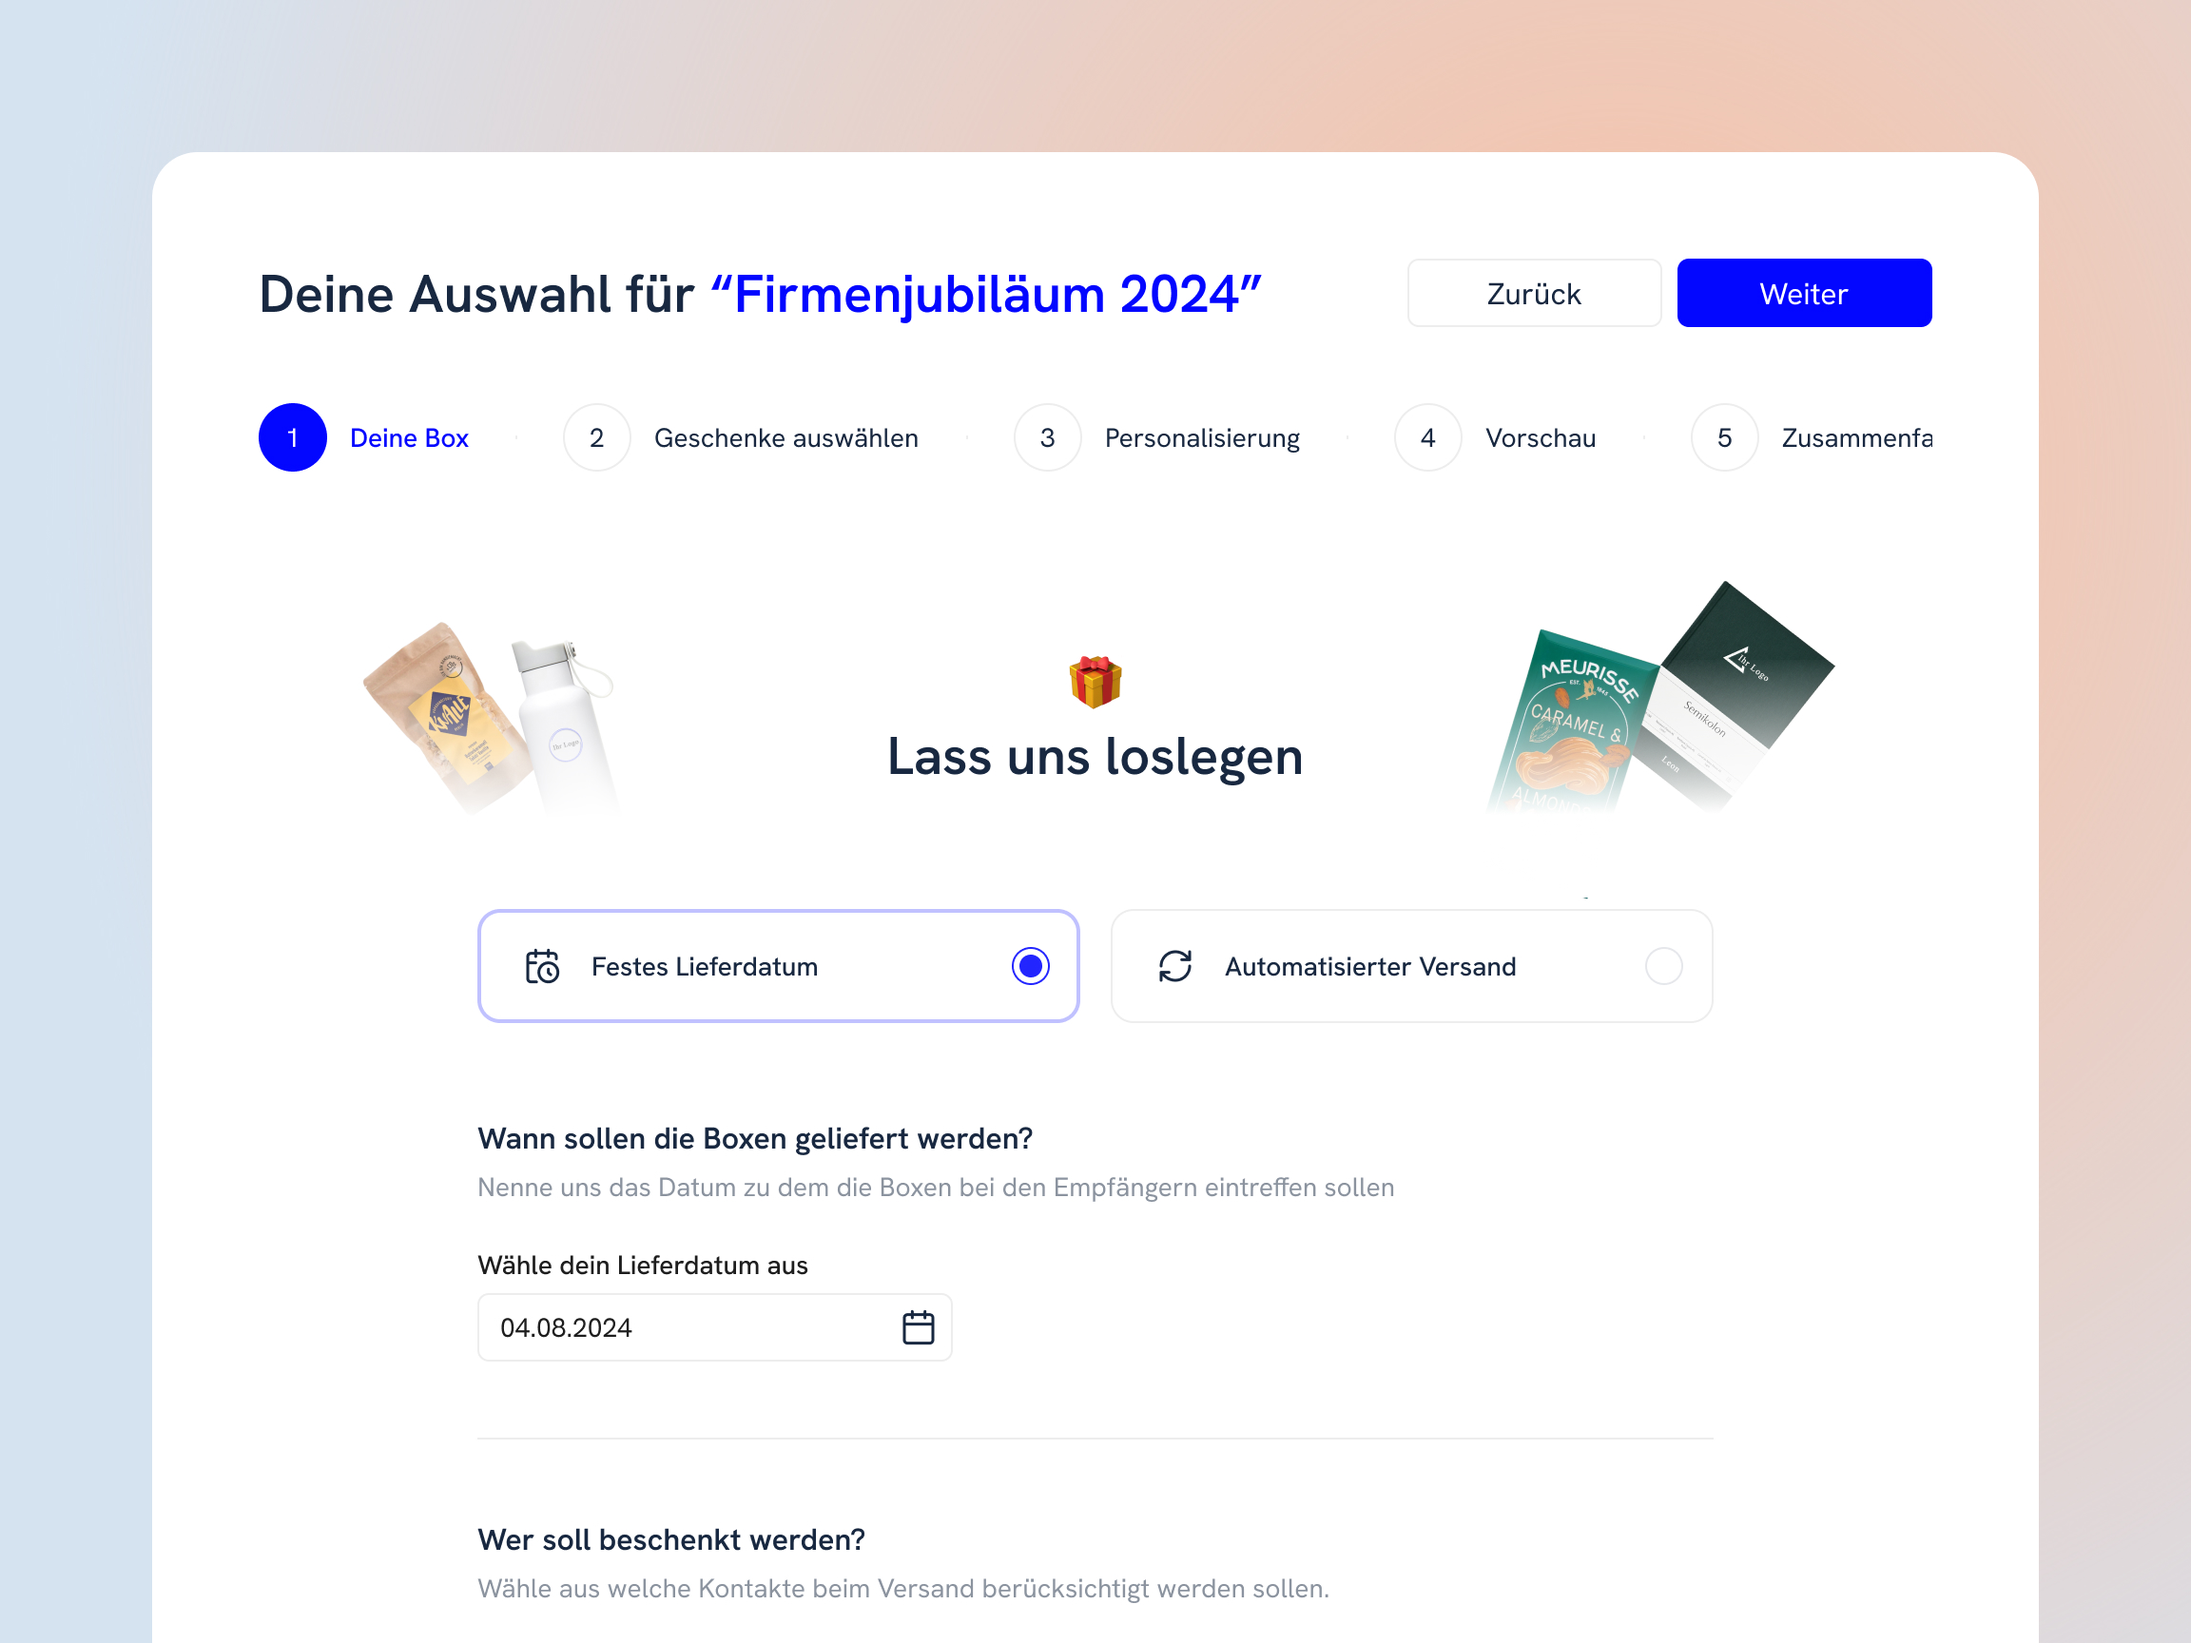
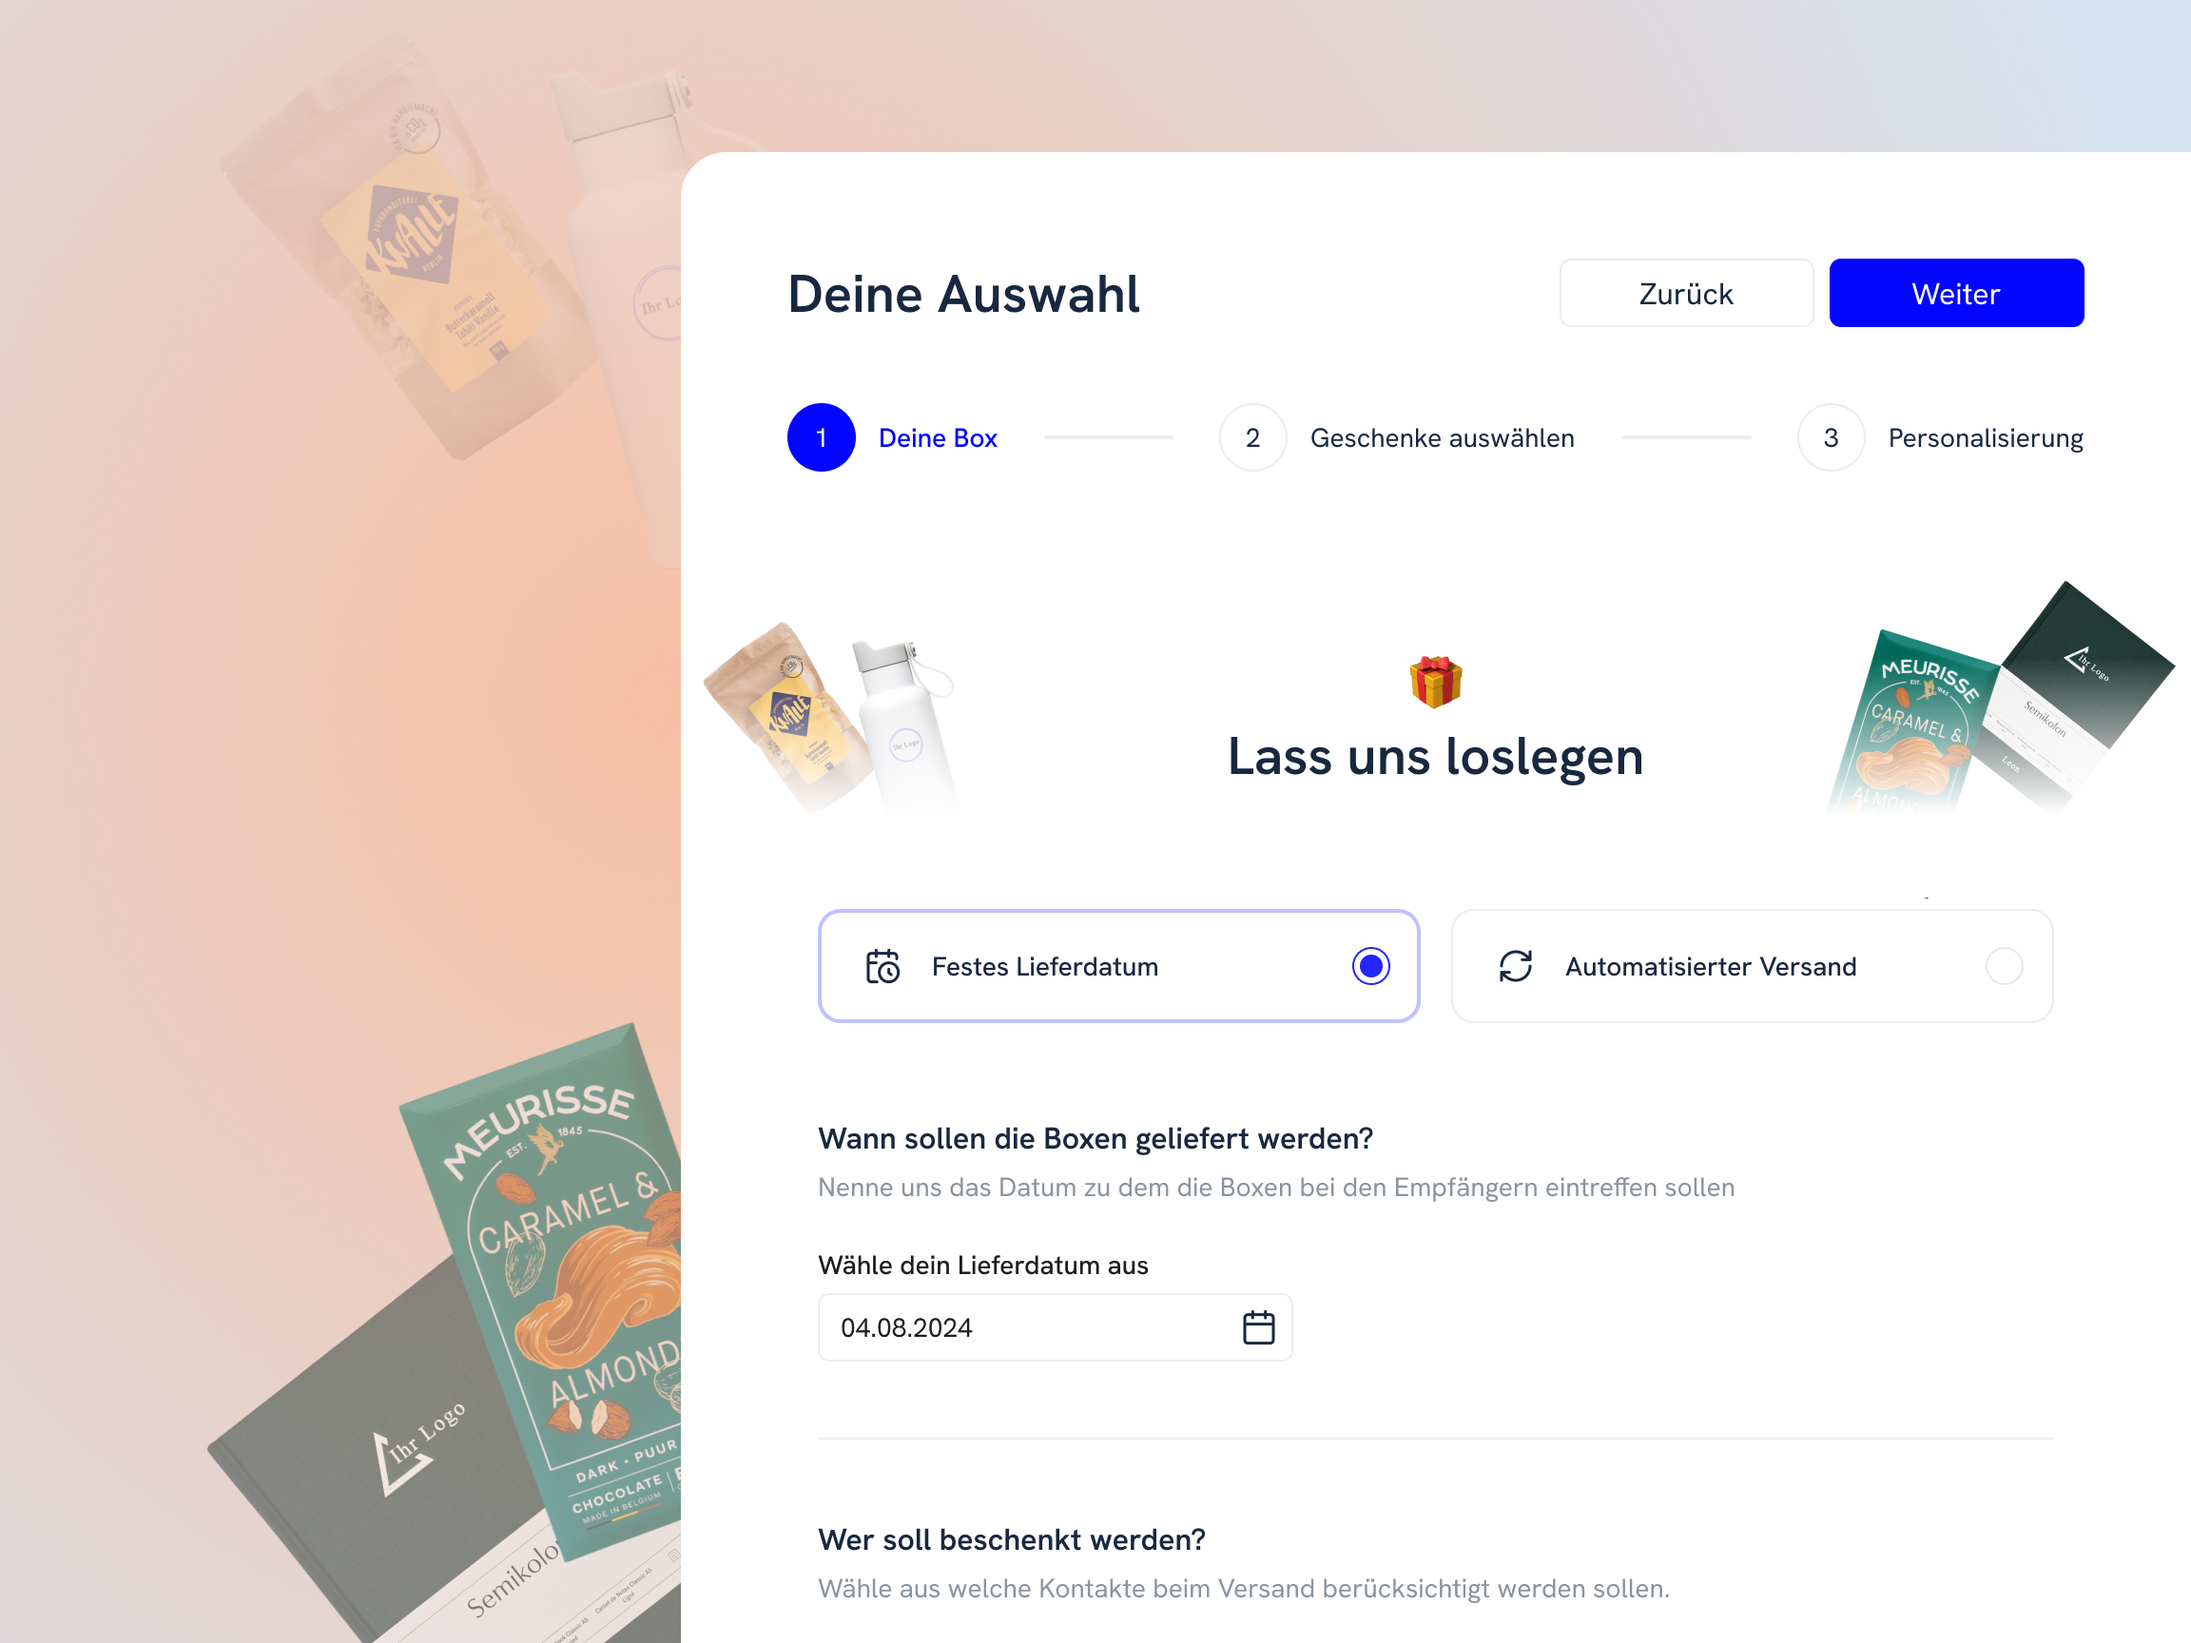
fixed brand section and content

diff --git a/src/components/Logos/Logos.scss b/src/components/Logos/Logos.scss
@@ -41,6 +41,7 @@
   flex-direction: row;
   overflow: hidden;
   max-width: tokens.max-width(full);
+  width:100%;
   margin: 0 auto;
 
   // Gradient fades on both edges using pseudo-elements
